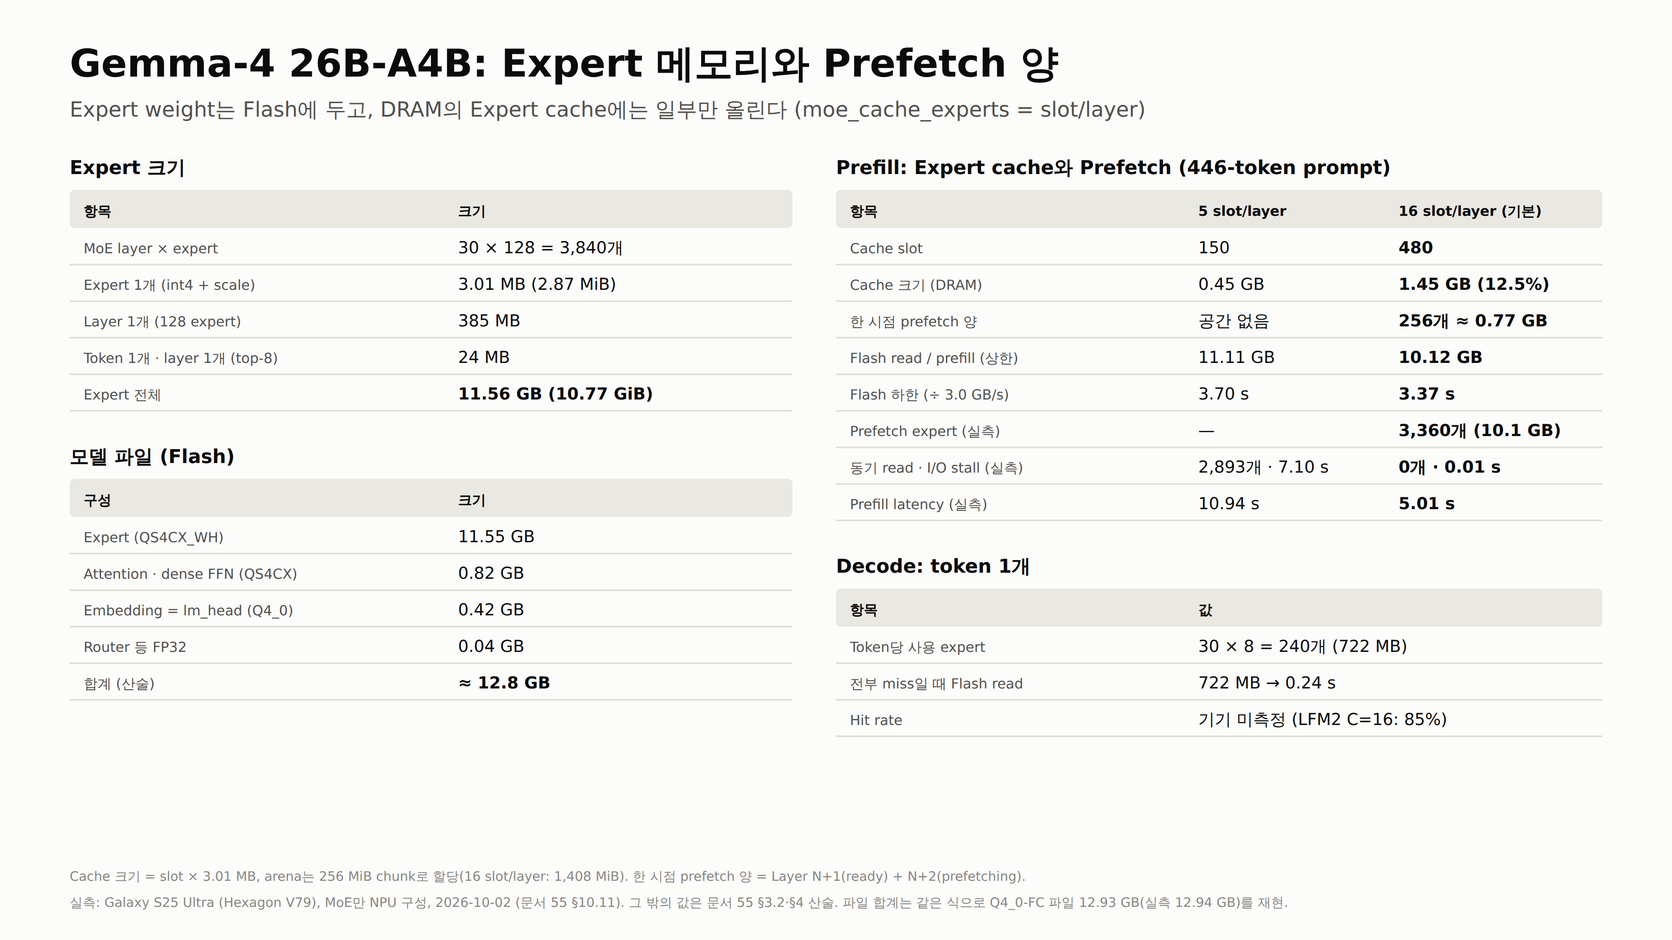
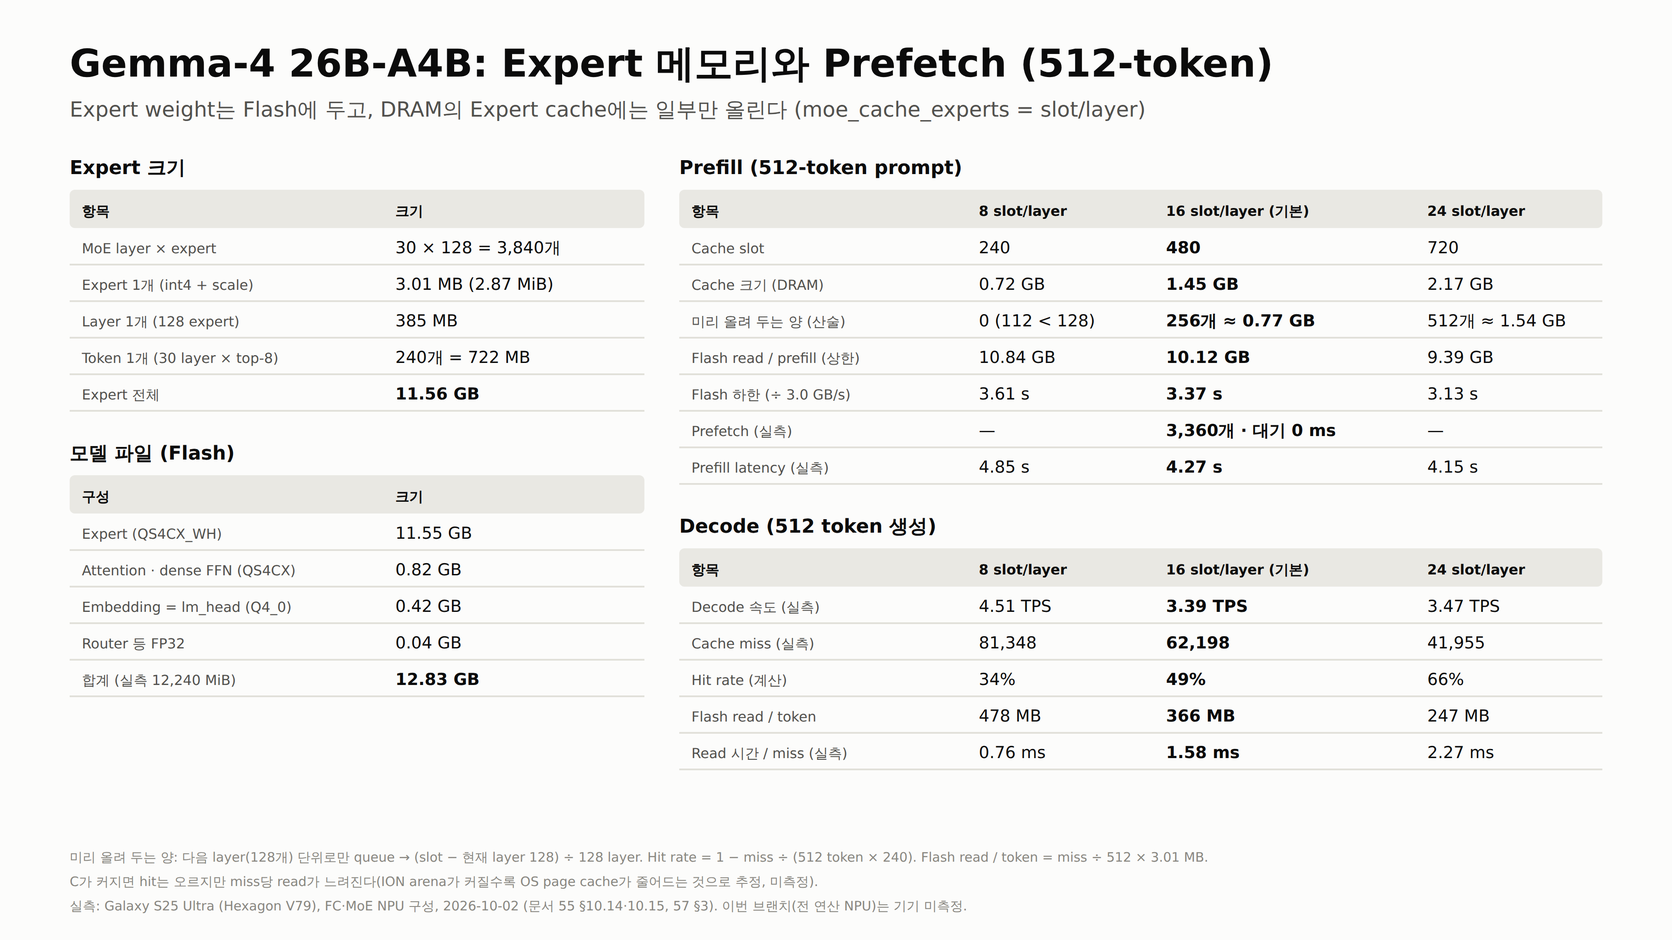
[Docs] Expert memory table on the 512-token measurements
The table now uses the 512-token runs (doc 55 sections 10.14-10.15,
doc 57 section 3) at 8, 16 and 24 slots per layer instead of the
446-token 5-versus-16 pair: cache sizes, how far ahead prefetch can
queue, flash read and its floor, the measured prefill and decode, and
the decode hit rate the measured miss counts give (1 - miss / (512 x
240): 34, 49, 66 %). The model file is the measured 12,240 MiB.

diff --git a/docs/htp_attention/figures/fsu/fsu_expert_memory_table.html b/docs/htp_attention/figures/fsu/fsu_expert_memory_table.html
@@ -33,96 +33,119 @@ svg { display:block; font-family:"Noto Sans KR",system-ui,sans-serif; }
 </defs>
 <rect width="1920" height="1080" fill="var(--surface)"/>
 
-<text x="80" y="88" class="t1" text-anchor="start" >Gemma-4 26B-A4B: Expert 메모리와 Prefetch 양</text>
+<text x="80" y="88" class="t1" text-anchor="start" >Gemma-4 26B-A4B: Expert 메모리와 Prefetch (512-token)</text>
 <text x="80" y="134" class="t2" text-anchor="start" >Expert weight는 Flash에 두고, DRAM의 Expert cache에는 일부만 올린다 (moe_cache_experts = slot/layer)</text>
 <text x="80" y="200" class="h3" text-anchor="start" >Expert 크기</text>
-<rect x="80" y="218" width="830" height="44" rx="6" fill="var(--idle)" />
-<text x="96" y="248" class="sm" text-anchor="start" style="font-weight:700;fill:#0b0b0b">항목</text>
-<text x="526" y="248" class="sm" text-anchor="start" style="font-weight:700;fill:#0b0b0b">크기</text>
-<text x="96" y="291" class="sm" text-anchor="start" >MoE layer × expert</text>
-<text x="526" y="291" class="lbl" text-anchor="start" >30 × 128 = 3,840개</text>
-<path d="M80,304 L910,304" stroke="#e1e0d9" stroke-width="2"/>
-<text x="96" y="333" class="sm" text-anchor="start" >Expert 1개 (int4 + scale)</text>
-<text x="526" y="333" class="lbl" text-anchor="start" >3.01 MB (2.87 MiB)</text>
-<path d="M80,346 L910,346" stroke="#e1e0d9" stroke-width="2"/>
-<text x="96" y="375" class="sm" text-anchor="start" >Layer 1개 (128 expert)</text>
-<text x="526" y="375" class="lbl" text-anchor="start" >385 MB</text>
-<path d="M80,388 L910,388" stroke="#e1e0d9" stroke-width="2"/>
-<text x="96" y="417" class="sm" text-anchor="start" >Token 1개 · layer 1개 (top-8)</text>
-<text x="526" y="417" class="lbl" text-anchor="start" >24 MB</text>
-<path d="M80,430 L910,430" stroke="#e1e0d9" stroke-width="2"/>
-<text x="96" y="459" class="sm" text-anchor="start" >Expert 전체</text>
-<text x="526" y="459" class="lbl" text-anchor="start" style="font-weight:700">11.56 GB (10.77 GiB)</text>
-<path d="M80,472 L910,472" stroke="#e1e0d9" stroke-width="2"/>
-<text x="80" y="532" class="h3" text-anchor="start" >모델 파일 (Flash)</text>
-<rect x="80" y="550" width="830" height="44" rx="6" fill="var(--idle)" />
-<text x="96" y="580" class="sm" text-anchor="start" style="font-weight:700;fill:#0b0b0b">구성</text>
-<text x="526" y="580" class="sm" text-anchor="start" style="font-weight:700;fill:#0b0b0b">크기</text>
-<text x="96" y="623" class="sm" text-anchor="start" >Expert (QS4CX_WH)</text>
-<text x="526" y="623" class="lbl" text-anchor="start" >11.55 GB</text>
-<path d="M80,636 L910,636" stroke="#e1e0d9" stroke-width="2"/>
-<text x="96" y="665" class="sm" text-anchor="start" >Attention · dense FFN (QS4CX)</text>
-<text x="526" y="665" class="lbl" text-anchor="start" >0.82 GB</text>
-<path d="M80,678 L910,678" stroke="#e1e0d9" stroke-width="2"/>
-<text x="96" y="707" class="sm" text-anchor="start" >Embedding = lm_head (Q4_0)</text>
-<text x="526" y="707" class="lbl" text-anchor="start" >0.42 GB</text>
-<path d="M80,720 L910,720" stroke="#e1e0d9" stroke-width="2"/>
-<text x="96" y="749" class="sm" text-anchor="start" >Router 등 FP32</text>
-<text x="526" y="749" class="lbl" text-anchor="start" >0.04 GB</text>
-<path d="M80,762 L910,762" stroke="#e1e0d9" stroke-width="2"/>
-<text x="96" y="791" class="sm" text-anchor="start" >합계 (산술)</text>
-<text x="526" y="791" class="lbl" text-anchor="start" style="font-weight:700">≈ 12.8 GB</text>
-<path d="M80,804 L910,804" stroke="#e1e0d9" stroke-width="2"/>
-<text x="960" y="200" class="h3" text-anchor="start" >Prefill: Expert cache와 Prefetch (446-token prompt)</text>
-<rect x="960" y="218" width="880" height="44" rx="6" fill="var(--idle)" />
-<text x="976" y="248" class="sm" text-anchor="start" style="font-weight:700;fill:#0b0b0b">항목</text>
-<text x="1376" y="248" class="sm" text-anchor="start" style="font-weight:700;fill:#0b0b0b">5 slot/layer</text>
-<text x="1606" y="248" class="sm" text-anchor="start" style="font-weight:700;fill:#0b0b0b">16 slot/layer (기본)</text>
-<text x="976" y="291" class="sm" text-anchor="start" >Cache slot</text>
-<text x="1376" y="291" class="lbl" text-anchor="start" >150</text>
-<text x="1606" y="291" class="lbl" text-anchor="start" style="font-weight:700">480</text>
-<path d="M960,304 L1840,304" stroke="#e1e0d9" stroke-width="2"/>
-<text x="976" y="333" class="sm" text-anchor="start" >Cache 크기 (DRAM)</text>
-<text x="1376" y="333" class="lbl" text-anchor="start" >0.45 GB</text>
-<text x="1606" y="333" class="lbl" text-anchor="start" style="font-weight:700">1.45 GB (12.5%)</text>
-<path d="M960,346 L1840,346" stroke="#e1e0d9" stroke-width="2"/>
-<text x="976" y="375" class="sm" text-anchor="start" >한 시점 prefetch 양</text>
-<text x="1376" y="375" class="lbl" text-anchor="start" >공간 없음</text>
-<text x="1606" y="375" class="lbl" text-anchor="start" style="font-weight:700">256개 ≈ 0.77 GB</text>
-<path d="M960,388 L1840,388" stroke="#e1e0d9" stroke-width="2"/>
-<text x="976" y="417" class="sm" text-anchor="start" >Flash read / prefill (상한)</text>
-<text x="1376" y="417" class="lbl" text-anchor="start" >11.11 GB</text>
-<text x="1606" y="417" class="lbl" text-anchor="start" style="font-weight:700">10.12 GB</text>
-<path d="M960,430 L1840,430" stroke="#e1e0d9" stroke-width="2"/>
-<text x="976" y="459" class="sm" text-anchor="start" >Flash 하한 (÷ 3.0 GB/s)</text>
-<text x="1376" y="459" class="lbl" text-anchor="start" >3.70 s</text>
-<text x="1606" y="459" class="lbl" text-anchor="start" style="font-weight:700">3.37 s</text>
-<path d="M960,472 L1840,472" stroke="#e1e0d9" stroke-width="2"/>
-<text x="976" y="501" class="sm" text-anchor="start" >Prefetch expert (실측)</text>
-<text x="1376" y="501" class="lbl" text-anchor="start" >—</text>
-<text x="1606" y="501" class="lbl" text-anchor="start" style="font-weight:700">3,360개 (10.1 GB)</text>
-<path d="M960,514 L1840,514" stroke="#e1e0d9" stroke-width="2"/>
-<text x="976" y="543" class="sm" text-anchor="start" >동기 read · I/O stall (실측)</text>
-<text x="1376" y="543" class="lbl" text-anchor="start" >2,893개 · 7.10 s</text>
-<text x="1606" y="543" class="lbl" text-anchor="start" style="font-weight:700">0개 · 0.01 s</text>
-<path d="M960,556 L1840,556" stroke="#e1e0d9" stroke-width="2"/>
-<text x="976" y="585" class="sm" text-anchor="start" >Prefill latency (실측)</text>
-<text x="1376" y="585" class="lbl" text-anchor="start" >10.94 s</text>
-<text x="1606" y="585" class="lbl" text-anchor="start" style="font-weight:700">5.01 s</text>
-<path d="M960,598 L1840,598" stroke="#e1e0d9" stroke-width="2"/>
-<text x="960" y="658" class="h3" text-anchor="start" >Decode: token 1개</text>
-<rect x="960" y="676" width="880" height="44" rx="6" fill="var(--idle)" />
-<text x="976" y="706" class="sm" text-anchor="start" style="font-weight:700;fill:#0b0b0b">항목</text>
-<text x="1376" y="706" class="sm" text-anchor="start" style="font-weight:700;fill:#0b0b0b">값</text>
-<text x="976" y="749" class="sm" text-anchor="start" >Token당 사용 expert</text>
-<text x="1376" y="749" class="lbl" text-anchor="start" >30 × 8 = 240개 (722 MB)</text>
-<path d="M960,762 L1840,762" stroke="#e1e0d9" stroke-width="2"/>
-<text x="976" y="791" class="sm" text-anchor="start" >전부 miss일 때 Flash read</text>
-<text x="1376" y="791" class="lbl" text-anchor="start" >722 MB → 0.24 s</text>
-<path d="M960,804 L1840,804" stroke="#e1e0d9" stroke-width="2"/>
-<text x="976" y="833" class="sm" text-anchor="start" >Hit rate</text>
-<text x="1376" y="833" class="lbl" text-anchor="start" >기기 미측정 (LFM2 C=16: 85%)</text>
-<path d="M960,846 L1840,846" stroke="#e1e0d9" stroke-width="2"/>
-<text x="80" y="1012" class="xs" text-anchor="start" >Cache 크기 = slot × 3.01 MB, arena는 256 MiB chunk로 할당(16 slot/layer: 1,408 MiB). 한 시점 prefetch 양 = Layer N+1(ready) + N+2(prefetching).</text>
-<text x="80" y="1042" class="xs" text-anchor="start" >실측: Galaxy S25 Ultra (Hexagon V79), MoE만 NPU 구성, 2026-10-02 (문서 55 §10.11). 그 밖의 값은 문서 55 §3.2·§4 산술. 파일 합계는 같은 식으로 Q4_0-FC 파일 12.93 GB(실측 12.94 GB)를 재현.</text>
+<rect x="80" y="218" width="660" height="44" rx="6" fill="var(--idle)" />
+<text x="94" y="248" class="sm" text-anchor="start" style="font-weight:700;fill:#0b0b0b">항목</text>
+<text x="454" y="248" class="sm" text-anchor="start" style="font-weight:700;fill:#0b0b0b">크기</text>
+<text x="94" y="291" class="sm" text-anchor="start" >MoE layer × expert</text>
+<text x="454" y="291" class="lbl" text-anchor="start" >30 × 128 = 3,840개</text>
+<path d="M80,304 L740,304" stroke="#e1e0d9" stroke-width="2"/>
+<text x="94" y="333" class="sm" text-anchor="start" >Expert 1개 (int4 + scale)</text>
+<text x="454" y="333" class="lbl" text-anchor="start" >3.01 MB (2.87 MiB)</text>
+<path d="M80,346 L740,346" stroke="#e1e0d9" stroke-width="2"/>
+<text x="94" y="375" class="sm" text-anchor="start" >Layer 1개 (128 expert)</text>
+<text x="454" y="375" class="lbl" text-anchor="start" >385 MB</text>
+<path d="M80,388 L740,388" stroke="#e1e0d9" stroke-width="2"/>
+<text x="94" y="417" class="sm" text-anchor="start" >Token 1개 (30 layer × top-8)</text>
+<text x="454" y="417" class="lbl" text-anchor="start" >240개 = 722 MB</text>
+<path d="M80,430 L740,430" stroke="#e1e0d9" stroke-width="2"/>
+<text x="94" y="459" class="sm" text-anchor="start" >Expert 전체</text>
+<text x="454" y="459" class="lbl" text-anchor="start" style="font-weight:700">11.56 GB</text>
+<path d="M80,472 L740,472" stroke="#e1e0d9" stroke-width="2"/>
+<text x="80" y="528" class="h3" text-anchor="start" >모델 파일 (Flash)</text>
+<rect x="80" y="546" width="660" height="44" rx="6" fill="var(--idle)" />
+<text x="94" y="576" class="sm" text-anchor="start" style="font-weight:700;fill:#0b0b0b">구성</text>
+<text x="454" y="576" class="sm" text-anchor="start" style="font-weight:700;fill:#0b0b0b">크기</text>
+<text x="94" y="619" class="sm" text-anchor="start" >Expert (QS4CX_WH)</text>
+<text x="454" y="619" class="lbl" text-anchor="start" >11.55 GB</text>
+<path d="M80,632 L740,632" stroke="#e1e0d9" stroke-width="2"/>
+<text x="94" y="661" class="sm" text-anchor="start" >Attention · dense FFN (QS4CX)</text>
+<text x="454" y="661" class="lbl" text-anchor="start" >0.82 GB</text>
+<path d="M80,674 L740,674" stroke="#e1e0d9" stroke-width="2"/>
+<text x="94" y="703" class="sm" text-anchor="start" >Embedding = lm_head (Q4_0)</text>
+<text x="454" y="703" class="lbl" text-anchor="start" >0.42 GB</text>
+<path d="M80,716 L740,716" stroke="#e1e0d9" stroke-width="2"/>
+<text x="94" y="745" class="sm" text-anchor="start" >Router 등 FP32</text>
+<text x="454" y="745" class="lbl" text-anchor="start" >0.04 GB</text>
+<path d="M80,758 L740,758" stroke="#e1e0d9" stroke-width="2"/>
+<text x="94" y="787" class="sm" text-anchor="start" >합계 (실측 12,240 MiB)</text>
+<text x="454" y="787" class="lbl" text-anchor="start" style="font-weight:700">12.83 GB</text>
+<path d="M80,800 L740,800" stroke="#e1e0d9" stroke-width="2"/>
+<text x="780" y="200" class="h3" text-anchor="start" >Prefill (512-token prompt)</text>
+<rect x="780" y="218" width="1060" height="44" rx="6" fill="var(--idle)" />
+<text x="794" y="248" class="sm" text-anchor="start" style="font-weight:700;fill:#0b0b0b">항목</text>
+<text x="1124" y="248" class="sm" text-anchor="start" style="font-weight:700;fill:#0b0b0b">8 slot/layer</text>
+<text x="1339" y="248" class="sm" text-anchor="start" style="font-weight:700;fill:#0b0b0b">16 slot/layer (기본)</text>
+<text x="1639" y="248" class="sm" text-anchor="start" style="font-weight:700;fill:#0b0b0b">24 slot/layer</text>
+<text x="794" y="291" class="sm" text-anchor="start" >Cache slot</text>
+<text x="1124" y="291" class="lbl" text-anchor="start" >240</text>
+<text x="1339" y="291" class="lbl" text-anchor="start" style="font-weight:700">480</text>
+<text x="1639" y="291" class="lbl" text-anchor="start" >720</text>
+<path d="M780,304 L1840,304" stroke="#e1e0d9" stroke-width="2"/>
+<text x="794" y="333" class="sm" text-anchor="start" >Cache 크기 (DRAM)</text>
+<text x="1124" y="333" class="lbl" text-anchor="start" >0.72 GB</text>
+<text x="1339" y="333" class="lbl" text-anchor="start" style="font-weight:700">1.45 GB</text>
+<text x="1639" y="333" class="lbl" text-anchor="start" >2.17 GB</text>
+<path d="M780,346 L1840,346" stroke="#e1e0d9" stroke-width="2"/>
+<text x="794" y="375" class="sm" text-anchor="start" >미리 올려 두는 양 (산술)</text>
+<text x="1124" y="375" class="lbl" text-anchor="start" >0 (112 < 128)</text>
+<text x="1339" y="375" class="lbl" text-anchor="start" style="font-weight:700">256개 ≈ 0.77 GB</text>
+<text x="1639" y="375" class="lbl" text-anchor="start" >512개 ≈ 1.54 GB</text>
+<path d="M780,388 L1840,388" stroke="#e1e0d9" stroke-width="2"/>
+<text x="794" y="417" class="sm" text-anchor="start" >Flash read / prefill (상한)</text>
+<text x="1124" y="417" class="lbl" text-anchor="start" >10.84 GB</text>
+<text x="1339" y="417" class="lbl" text-anchor="start" style="font-weight:700">10.12 GB</text>
+<text x="1639" y="417" class="lbl" text-anchor="start" >9.39 GB</text>
+<path d="M780,430 L1840,430" stroke="#e1e0d9" stroke-width="2"/>
+<text x="794" y="459" class="sm" text-anchor="start" >Flash 하한 (÷ 3.0 GB/s)</text>
+<text x="1124" y="459" class="lbl" text-anchor="start" >3.61 s</text>
+<text x="1339" y="459" class="lbl" text-anchor="start" style="font-weight:700">3.37 s</text>
+<text x="1639" y="459" class="lbl" text-anchor="start" >3.13 s</text>
+<path d="M780,472 L1840,472" stroke="#e1e0d9" stroke-width="2"/>
+<text x="794" y="501" class="sm" text-anchor="start" >Prefetch (실측)</text>
+<text x="1124" y="501" class="lbl" text-anchor="start" >—</text>
+<text x="1339" y="501" class="lbl" text-anchor="start" style="font-weight:700">3,360개 · 대기 0 ms</text>
+<text x="1639" y="501" class="lbl" text-anchor="start" >—</text>
+<path d="M780,514 L1840,514" stroke="#e1e0d9" stroke-width="2"/>
+<text x="794" y="543" class="sm" text-anchor="start" >Prefill latency (실측)</text>
+<text x="1124" y="543" class="lbl" text-anchor="start" >4.85 s</text>
+<text x="1339" y="543" class="lbl" text-anchor="start" style="font-weight:700">4.27 s</text>
+<text x="1639" y="543" class="lbl" text-anchor="start" >4.15 s</text>
+<path d="M780,556 L1840,556" stroke="#e1e0d9" stroke-width="2"/>
+<text x="780" y="612" class="h3" text-anchor="start" >Decode (512 token 생성)</text>
+<rect x="780" y="630" width="1060" height="44" rx="6" fill="var(--idle)" />
+<text x="794" y="660" class="sm" text-anchor="start" style="font-weight:700;fill:#0b0b0b">항목</text>
+<text x="1124" y="660" class="sm" text-anchor="start" style="font-weight:700;fill:#0b0b0b">8 slot/layer</text>
+<text x="1339" y="660" class="sm" text-anchor="start" style="font-weight:700;fill:#0b0b0b">16 slot/layer (기본)</text>
+<text x="1639" y="660" class="sm" text-anchor="start" style="font-weight:700;fill:#0b0b0b">24 slot/layer</text>
+<text x="794" y="703" class="sm" text-anchor="start" >Decode 속도 (실측)</text>
+<text x="1124" y="703" class="lbl" text-anchor="start" >4.51 TPS</text>
+<text x="1339" y="703" class="lbl" text-anchor="start" style="font-weight:700">3.39 TPS</text>
+<text x="1639" y="703" class="lbl" text-anchor="start" >3.47 TPS</text>
+<path d="M780,716 L1840,716" stroke="#e1e0d9" stroke-width="2"/>
+<text x="794" y="745" class="sm" text-anchor="start" >Cache miss (실측)</text>
+<text x="1124" y="745" class="lbl" text-anchor="start" >81,348</text>
+<text x="1339" y="745" class="lbl" text-anchor="start" style="font-weight:700">62,198</text>
+<text x="1639" y="745" class="lbl" text-anchor="start" >41,955</text>
+<path d="M780,758 L1840,758" stroke="#e1e0d9" stroke-width="2"/>
+<text x="794" y="787" class="sm" text-anchor="start" >Hit rate (계산)</text>
+<text x="1124" y="787" class="lbl" text-anchor="start" >34%</text>
+<text x="1339" y="787" class="lbl" text-anchor="start" style="font-weight:700">49%</text>
+<text x="1639" y="787" class="lbl" text-anchor="start" >66%</text>
+<path d="M780,800 L1840,800" stroke="#e1e0d9" stroke-width="2"/>
+<text x="794" y="829" class="sm" text-anchor="start" >Flash read / token</text>
+<text x="1124" y="829" class="lbl" text-anchor="start" >478 MB</text>
+<text x="1339" y="829" class="lbl" text-anchor="start" style="font-weight:700">366 MB</text>
+<text x="1639" y="829" class="lbl" text-anchor="start" >247 MB</text>
+<path d="M780,842 L1840,842" stroke="#e1e0d9" stroke-width="2"/>
+<text x="794" y="871" class="sm" text-anchor="start" >Read 시간 / miss (실측)</text>
+<text x="1124" y="871" class="lbl" text-anchor="start" >0.76 ms</text>
+<text x="1339" y="871" class="lbl" text-anchor="start" style="font-weight:700">1.58 ms</text>
+<text x="1639" y="871" class="lbl" text-anchor="start" >2.27 ms</text>
+<path d="M780,884 L1840,884" stroke="#e1e0d9" stroke-width="2"/>
+<text x="80" y="990" class="xs" text-anchor="start" >미리 올려 두는 양: 다음 layer(128개) 단위로만 queue → (slot − 현재 layer 128) ÷ 128 layer. Hit rate = 1 − miss ÷ (512 token × 240). Flash read / token = miss ÷ 512 × 3.01 MB.</text>
+<text x="80" y="1018" class="xs" text-anchor="start" >C가 커지면 hit는 오르지만 miss당 read가 느려진다(ION arena가 커질수록 OS page cache가 줄어드는 것으로 추정, 미측정).</text>
+<text x="80" y="1046" class="xs" text-anchor="start" >실측: Galaxy S25 Ultra (Hexagon V79), FC·MoE NPU 구성, 2026-10-02 (문서 55 §10.14·10.15, 57 §3). 이번 브랜치(전 연산 NPU)는 기기 미측정.</text>
 </svg></body></html>

diff --git a/docs/htp_attention/figures/fsu/gen.py b/docs/htp_attention/figures/fsu/gen.py
@@ -518,7 +518,7 @@ def figP():
 # --------------------------------------------- expert memory, as tables
 def figT():
     o = [HEAD.format(title="Expert memory and prefetch")]
-    o.append(text(80, 88, "Gemma-4 26B-A4B: Expert 메모리와 Prefetch 양", "t1"))
+    o.append(text(80, 88, "Gemma-4 26B-A4B: Expert 메모리와 Prefetch (512-token)", "t1"))
     o.append(text(80, 134, "Expert weight는 Flash에 두고, DRAM의 Expert cache에는 일부만 올린다 (moe_cache_experts = slot/layer)", "t2"))
 
     def table(x, y, widths, header, rows, title, bold_last=False, hl_col=None):
@@ -528,54 +528,58 @@ def figT():
         o.append(rect(x, y, tw, 44, "var(--idle)", 6))
         cx = x
         for w, h in zip(widths, header):
-            o.append(text(cx + 16, y + 30, h, "sm", extra='style="font-weight:700;fill:#0b0b0b"'))
+            o.append(text(cx + 14, y + 30, h, "sm", extra='style="font-weight:700;fill:#0b0b0b"'))
             cx += w
         y += 44
         for k, row in enumerate(rows):
             cx = x
             for j, (w, v) in enumerate(zip(widths, row)):
                 st = 'style="font-weight:700"' if (bold_last and k == len(rows) - 1) or j == hl_col else ""
-                o.append(text(cx + 16, y + 29, v, "sm" if j == 0 else "lbl", extra=st if j else ""))
+                o.append(text(cx + 14, y + 29, v, "sm" if j == 0 else "lbl", extra=st if j else ""))
                 cx += w
             y += 42
             o.append(f'<path d="M{x},{y} L{x + tw},{y}" stroke="#e1e0d9" stroke-width="2"/>')
         return y
 
-    # left: sizes and file
-    y = table(80, 200, [430, 400], ["항목", "크기"], [
+    lw = [360, 300]
+    y = table(80, 200, lw, ["항목", "크기"], [
         ("MoE layer × expert", "30 × 128 = 3,840개"),
         ("Expert 1개 (int4 + scale)", "3.01 MB (2.87 MiB)"),
         ("Layer 1개 (128 expert)", "385 MB"),
-        ("Token 1개 · layer 1개 (top-8)", "24 MB"),
-        ("Expert 전체", "11.56 GB (10.77 GiB)"),
+        ("Token 1개 (30 layer × top-8)", "240개 = 722 MB"),
+        ("Expert 전체", "11.56 GB"),
     ], "Expert 크기", bold_last=True)
-    table(80, y + 60, [430, 400], ["구성", "크기"], [
+    table(80, y + 56, lw, ["구성", "크기"], [
         ("Expert (QS4CX_WH)", "11.55 GB"),
         ("Attention · dense FFN (QS4CX)", "0.82 GB"),
         ("Embedding = lm_head (Q4_0)", "0.42 GB"),
         ("Router 등 FP32", "0.04 GB"),
-        ("합계 (산술)", "≈ 12.8 GB"),
+        ("합계 (실측 12,240 MiB)", "12.83 GB"),
     ], "모델 파일 (Flash)", bold_last=True)
-    # right: cache and prefetch, prefill
-    y = table(960, 200, [400, 230, 250], ["항목", "5 slot/layer", "16 slot/layer (기본)"], [
-        ("Cache slot", "150", "480"),
-        ("Cache 크기 (DRAM)", "0.45 GB", "1.45 GB (12.5%)"),
-        ("한 시점 prefetch 양", "공간 없음", "256개 ≈ 0.77 GB"),
-        ("Flash read / prefill (상한)", "11.11 GB", "10.12 GB"),
-        ("Flash 하한 (÷ 3.0 GB/s)", "3.70 s", "3.37 s"),
-        ("Prefetch expert (실측)", "—", "3,360개 (10.1 GB)"),
-        ("동기 read · I/O stall (실측)", "2,893개 · 7.10 s", "0개 · 0.01 s"),
-        ("Prefill latency (실측)", "10.94 s", "5.01 s"),
-    ], "Prefill: Expert cache와 Prefetch (446-token prompt)", hl_col=2)
-    table(960, y + 60, [400, 480], ["항목", "값"], [
-        ("Token당 사용 expert", "30 × 8 = 240개 (722 MB)"),
-        ("전부 miss일 때 Flash read", "722 MB → 0.24 s"),
-        ("Hit rate", "기기 미측정 (LFM2 C=16: 85%)"),
-    ], "Decode: token 1개")
-    o.append(text(80, 1012, "Cache 크기 = slot × 3.01 MB, arena는 256 MiB chunk로 할당(16 slot/layer: 1,408 MiB). "
-                            "한 시점 prefetch 양 = Layer N+1(ready) + N+2(prefetching).", "xs"))
-    o.append(text(80, 1042, "실측: Galaxy S25 Ultra (Hexagon V79), MoE만 NPU 구성, 2026-10-02 (문서 55 §10.11). "
-                            "그 밖의 값은 문서 55 §3.2·§4 산술. 파일 합계는 같은 식으로 Q4_0-FC 파일 12.93 GB(실측 12.94 GB)를 재현.", "xs"))
+
+    rw = [330, 215, 300, 215]
+    hdr = ["항목", "8 slot/layer", "16 slot/layer (기본)", "24 slot/layer"]
+    y = table(780, 200, rw, hdr, [
+        ("Cache slot", "240", "480", "720"),
+        ("Cache 크기 (DRAM)", "0.72 GB", "1.45 GB", "2.17 GB"),
+        ("미리 올려 두는 양 (산술)", "0 (112 < 128)", "256개 ≈ 0.77 GB", "512개 ≈ 1.54 GB"),
+        ("Flash read / prefill (상한)", "10.84 GB", "10.12 GB", "9.39 GB"),
+        ("Flash 하한 (÷ 3.0 GB/s)", "3.61 s", "3.37 s", "3.13 s"),
+        ("Prefetch (실측)", "—", "3,360개 · 대기 0 ms", "—"),
+        ("Prefill latency (실측)", "4.85 s", "4.27 s", "4.15 s"),
+    ], "Prefill (512-token prompt)", hl_col=2)
+    table(780, y + 56, rw, hdr, [
+        ("Decode 속도 (실측)", "4.51 TPS", "3.39 TPS", "3.47 TPS"),
+        ("Cache miss (실측)", "81,348", "62,198", "41,955"),
+        ("Hit rate (계산)", "34%", "49%", "66%"),
+        ("Flash read / token", "478 MB", "366 MB", "247 MB"),
+        ("Read 시간 / miss (실측)", "0.76 ms", "1.58 ms", "2.27 ms"),
+    ], "Decode (512 token 생성)", hl_col=2)
+    o.append(text(80, 990, "미리 올려 두는 양: 다음 layer(128개) 단위로만 queue → (slot − 현재 layer 128) ÷ 128 layer. "
+                           "Hit rate = 1 − miss ÷ (512 token × 240). Flash read / token = miss ÷ 512 × 3.01 MB.", "xs"))
+    o.append(text(80, 1018, "C가 커지면 hit는 오르지만 miss당 read가 느려진다(ION arena가 커질수록 OS page cache가 줄어드는 것으로 추정, 미측정).", "xs"))
+    o.append(text(80, 1046, "실측: Galaxy S25 Ultra (Hexagon V79), FC·MoE NPU 구성, 2026-10-02 (문서 55 §10.14·10.15, 57 §3). "
+                            "이번 브랜치(전 연산 NPU)는 기기 미측정.", "xs"))
     o.append(TAIL)
     return "\n".join(o)
 
